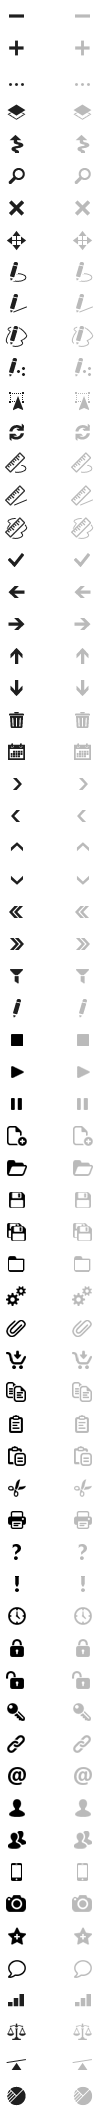
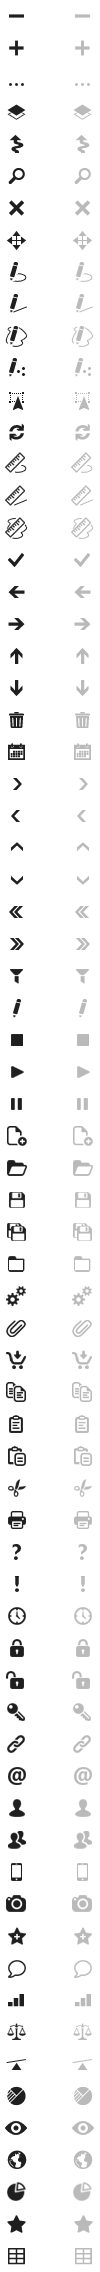
- Added new AppIcons. - Added missing semicolons.

Changed region(s): [[0.06, 0.0, 0.27, 1.0], [0.72, 0.0, 0.93, 1.0]]

diff --git a/src/ng_wineight/wineight.js b/src/ng_wineight/wineight.js
@@ -37,7 +37,7 @@ var WinEightControls = {
     'img/we_base.png?4',
     'img/we_hbox.png?3',
     'img/we_vbox.png?3',
-    'img/we_icons.png?11',
+    'img/we_icons.png?12',
 
     // pre-load
     'img/progressline_black.gif?1',
@@ -495,8 +495,14 @@ var WinEightControls = {
       Chat: 61,
       Chart: 62,
       Balance: 63,
-      Swing:64,
-      PieChart:65
+      Swing: 64,
+      PieChart: 65,
+      Eye: 66,
+      Globe: 67,
+      Sector: 68,
+      Star: 69,
+      Table: 70
+
     },{
       // automaticaly created from AppIcons
     }
@@ -665,7 +671,7 @@ var WinEightControls = {
         }
       });
       return ngCreateControlAsType(def, ngVal(controltype,'ngCheckBox'), ref, parent);
-    }
+    };
     /*  Class: weCheckBox
      *  Standard check box control (based on <ngCheckBox>).
      */
@@ -747,7 +753,7 @@ var WinEightControls = {
         }
       }
       return c;
-    }
+    };
 
 
     ngRegisterControlType('weButton', function(def,ref,parent) {
@@ -809,7 +815,7 @@ var WinEightControls = {
         c.MiddleImg=img;
       }
       return c;
-    }
+    };
 
     ngRegisterControlType('weAppButton', function(def,ref,parent) { return skinfnc.Create_weAppButton(def,ref,parent); });
 
@@ -841,7 +847,7 @@ var WinEightControls = {
         if((c)&&(ng_EmptyVar(c.Frame))) c.Frame=(c.Text == '' && (!c.OnGetText) ? winimages.GroupBoxNoText : winimages.GroupBox);
       });
       return c;
-    }
+    };
     ngRegisterControlType('weGroup', skinfnc.Create_weGroup);
     ngRegisterControlType('weGroupBox', skinfnc.Create_weGroup);
 
@@ -928,7 +934,7 @@ var WinEightControls = {
         wineight.weEdit_AddProperties(def,c,th);
       }
       return c;
-    }
+    };
 
     /*  Class: weEdit
      *  Standard edit control (based on <ngEdit>).
@@ -980,7 +986,7 @@ var WinEightControls = {
        */
       c.OnEllipsis=null;
       return c;
-    }
+    };
 
     ngRegisterControlType('weEditBoxBtn', function(def,ref,parent) { return skinfnc.Create_weEditBoxBtn(def,ref,parent); });
 
@@ -1033,7 +1039,7 @@ var WinEightControls = {
        */
       // c.OnSearch=null;
       return c;
-    }
+    };
     ngRegisterControlType('weSearchBox', function(def,ref,parent) { return skinfnc.Create_weSearchBox(def,ref,parent); });
 
     /*  Class: weEditNum
@@ -1077,7 +1083,7 @@ var WinEightControls = {
         c.ButtonDown.ButtonAlign='left';
       }
       return c;
-    }
+    };
     ngRegisterControlType('weEditNum', function(def,ref,parent) { return skinfnc.Create_weEditNum(def,ref,parent); });
     ngRegisterControlType('weEditBoxNum', function(def,ref,parent) { return skinfnc.Create_weEditNum(def,ref,parent); });
 
@@ -1155,7 +1161,7 @@ var WinEightControls = {
         e.DropDownButton.Update();
       };
       return c;
-    }
+    };
     ngRegisterControlType('weColorEdit', function(def,ref,parent) { return skinfnc.Create_weColorEdit(def,ref,parent); });
     ngRegisterControlType('weColorEditBox', function(def,ref,parent) { return skinfnc.Create_weColorEdit(def,ref,parent); });
 
@@ -1242,7 +1248,7 @@ var WinEightControls = {
         };
 
         return c;
-      }
+      };
       ngRegisterControlType('weMaskEdit', function(def,ref,parent) { return skinfnc.Create_weMaskEdit(def,ref,parent); });
       ngRegisterControlType('weMaskEditBox', function(def,ref,parent) { return skinfnc.Create_weMaskEdit(def,ref,parent); });
     }
@@ -1282,7 +1288,7 @@ var WinEightControls = {
       c.DropDownButton.LeftImg=winimages.DropDown;
       wineight.Prepare_DropDown(def);
       return c;
-    }
+    };
     ngRegisterControlType('weDropDown', function(def,ref,parent) { return skinfnc.Create_weDropDown(def,ref,parent,'ngEdit'); });
 
     /*  Class: weDropDownList
@@ -1371,7 +1377,7 @@ var WinEightControls = {
         if(update) c.DoUpdateImages();
       };
       return c;
-    }
+    };
     ngRegisterControlType('weMemo', function(def,ref,parent) { return skinfnc.Create_weMemo(def,ref,parent); });
 
     skinfnc.Create_wePages=function(def,ref,parent) {
@@ -1403,7 +1409,7 @@ var WinEightControls = {
         }
       });
       return c;
-    }
+    };
     /*  Class: wePages
      *  Standard pages control (based on <ngPages>).
      */
@@ -1465,7 +1471,7 @@ var WinEightControls = {
         }, 'OnGetText');
       }
       return c;
-    }
+    };
 
     /*  Class: weProgressRing
      *  Standard progress dot control (based on <ngText>).
@@ -1575,7 +1581,7 @@ var WinEightControls = {
         });
 
         return c;
-      }
+      };
       ngRegisterControlType('weList', function(def,ref,parent) { return skinfnc.Create_weList(def,ref,parent); });
       ngRegisterControlType('weListBox', function(def,ref,parent) { return skinfnc.Create_weList(def,ref,parent); });
       ngRegisterControlType('weTreeList', function(def,ref,parent) { return skinfnc.Create_weList(def,ref,parent); });
@@ -1713,7 +1719,7 @@ var WinEightControls = {
         });
 
         return ngCreateControlAsType(def, ngVal(controltype,'ngPageList'), ref, parent);
-      }
+      };
       ngRegisterControlType('wePageList', function (def,ref,parent) { return skinfnc.Create_wePageList(def,ref,parent,'ngPageList'); });
       ngRegisterControlType('wePageTreeList', function (def,ref,parent) { return skinfnc.Create_wePageList(def,ref,parent,'ngPageList','weTreeList'); });
     }
@@ -1770,7 +1776,7 @@ var WinEightControls = {
           c.HandleImg=(vsplit ? (th ? winimages.VSplitLight : winimages.VSplitDark) : (th ? winimages.HSplitLight : winimages.HSplitDark));
         }
         return c;
-      }
+      };
 
       ngRegisterControlType('weSplitPanel', function(def,ref,parent) { return skinfnc.Create_weSplitPanel(def,ref,parent); });
 
@@ -1801,7 +1807,7 @@ var WinEightControls = {
           if(typeof def.R==='undefined') def.R=0;
         }
         return c;
-      }
+      };
 
       ngRegisterControlType('weDropPanel', function(def,ref,parent) { return skinfnc.Create_weDropPanel(def,ref,parent); });
     }
@@ -1944,7 +1950,7 @@ var WinEightControls = {
           c.Buttons[c.Buttons.length]=b;
         }
         return c;
-      }
+      };
       ngRegisterControlType('weWindow', function(def,ref,parent) { return skinfnc.Create_weWindow(def,ref,parent); });
       ngRegisterControlType('weDialog', function(def,ref,parent) { return skinfnc.Create_weWindow(def,ref,parent); });
 
@@ -2228,7 +2234,7 @@ var WinEightControls = {
         }
         if(def.DialogType==='weMessageDlg')  def.DialogType='weDialog';
         return ngCreateControlAsType(def, 'ngMessageDlg', ref, parent);
-      }
+      };
 
       ngRegisterControlType('weMessageDlg', function(def,ref,parent) { return skinfnc.Create_weMessageDlg(def,ref,parent);});
 
@@ -2240,7 +2246,7 @@ var WinEightControls = {
         delete def.DialogType;
         def.DlgButtons=ngVal(def.DlgButtons,mbOK);
         return ngCreateControlAsType(def, 'weMessageDlg', ref, parent);
-      }
+      };
       ngRegisterControlType('weDlgMessageBox', function(def,ref,parent) { return skinfnc.Create_dlgMessageBox(def,ref,parent);});
 
       /*  Class: dlgInputBox
@@ -2530,7 +2536,7 @@ var WinEightControls = {
           });
         }
         return c;
-      }
+      };
 
       ngRegisterControlType('weDlgListBox', function(def,ref,parent) { return skinfnc.Create_dlgListBox(def,ref,parent);});
 
@@ -2571,7 +2577,7 @@ var WinEightControls = {
           }
         });
         return ngCreateControlAsType(def, 'weMessageDlg', ref, parent);
-      }
+      };
 
       ngRegisterControlType('weDlgProgressBox', function(def,ref,parent) { return skinfnc.Create_dlgProgressBox(def,ref,parent);});
 
@@ -2606,7 +2612,7 @@ var WinEightControls = {
           }
         });
         return ngCreateControlAsType(def, 'weMessageDlg', ref, parent);
-      }
+      };
 
       ngRegisterControlType('weDlgWaitBox', function(def,ref,parent) { return skinfnc.Create_dlgWaitBox(def,ref,parent);});
 
@@ -2668,7 +2674,7 @@ var WinEightControls = {
         }
         ng_MergeDef(def, cdef, true);
         return ngCreateControlAsType(def, 'ngAboutDlg', ref, parent);
-      }
+      };
 
       ngRegisterControlType('weDlgAbout', function(def,ref,parent) { return skinfnc.Create_dlgAbout(def,ref,parent);});
     }
@@ -2708,7 +2714,7 @@ var WinEightControls = {
           b.className='weButton'+(th ? 'Light' : 'Dark')+' weCalBtn';
         }
         return c;
-      }
+      };
 
       ngRegisterControlType('weCalendar', function(def,ref,parent) { return skinfnc.Create_weCalendar(def,ref,parent); });
 
@@ -2736,7 +2742,7 @@ var WinEightControls = {
         c.DropDownButton.Alt = ngTxt('calendar');
         c.DropDownButton.Default = false;
         return c;
-      }
+      };
 
       ngRegisterControlType('weEditDate', function(def,ref,parent) { return skinfnc.Create_weEditDate(def,ref,parent); });
 
@@ -2796,7 +2802,7 @@ var WinEightControls = {
         c.DropDownButton.Default = false;
         wineight.Prepare_DropDown(def);
         return c;
-      }
+      };
 
       ngRegisterControlType('weEditTime', function(def,ref,parent) { return skinfnc.Create_weEditTime(def,ref,parent); });
     }
@@ -3464,7 +3470,7 @@ var WinEightControls = {
           };
         }
         return c;
-      }
+      };
 
       ngRegisterControlType('weMenu', function(def,ref,parent) { return skinfnc.Create_weMenu(def,ref,parent); });
 
@@ -3504,7 +3510,7 @@ var WinEightControls = {
           c.RightImg=winimages.ButtonLight.MenuRightBtnImg;
         }
         return c;
-      }
+      };
 
       ngRegisterControlType('weSplitButton', function(def,ref,parent) { return skinfnc.Create_weSplitButton(def,ref,parent); });
     }
@@ -3612,7 +3618,7 @@ var WinEightControls = {
         });
 
         return ngCreateControlAsType(def, 'ngFileUploader', ref, parent);
-      }
+      };
       ngRegisterControlType('weFileUploader', function(def,ref,parent) { return skinfnc.Create_weFileUploader(def,ref,parent); });
     }
 
@@ -3645,7 +3651,7 @@ var WinEightControls = {
           });
         }
         return c;
-      }
+      };
 
       ngRegisterControlType('weViewModelForm', function(def,ref,parent) { return skinfnc.Create_weViewModelForm(def,ref,parent); } );
 
@@ -3664,7 +3670,7 @@ var WinEightControls = {
             Type: 'weTextHint'
           }
         });
-      }
+      };
 
       skinfnc.Create_weEditField=function(def,ref,parent) {
         var th=theme(def);
@@ -3676,7 +3682,7 @@ var WinEightControls = {
           wineight.weEdit_AddProperties(def,c,th);
         }
         return c;
-      }
+      };
       ngRegisterControlType('weEditField', function(def,ref,parent) { return skinfnc.Create_weEditField(def,ref,parent); });
 
       /*  Class: weSearchBoxField
@@ -3867,7 +3873,7 @@ var WinEightControls = {
           }
         });
         return ngCreateControlAsType(def, 'ngDBToolBar', ref, parent);
-      }
+      };
 
       ngRegisterControlType('weDBToolBar', function(def,ref,parent) { return skinfnc.Create_weDBToolBar(def,ref,parent); });
 
@@ -3920,7 +3926,7 @@ var WinEightControls = {
           }
         });
         return skinfnc.Create_wePageList(def,ref,parent,'ngDBDataSet');
-      }
+      };
 
       ngRegisterControlType('weDBDataSet', function (def,ref,parent) { return skinfnc.Create_weDBDataSet(def,ref,parent); });
     }
